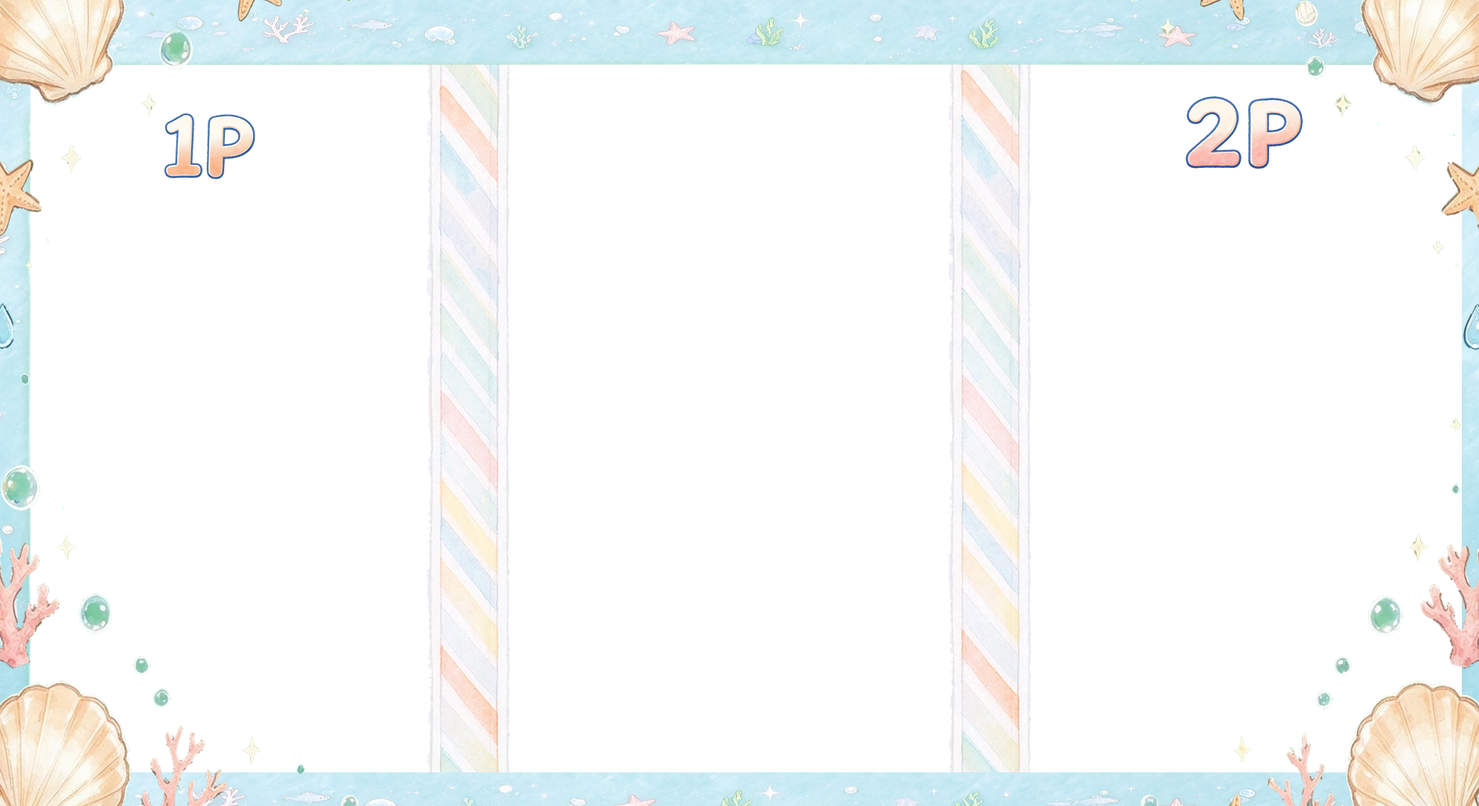
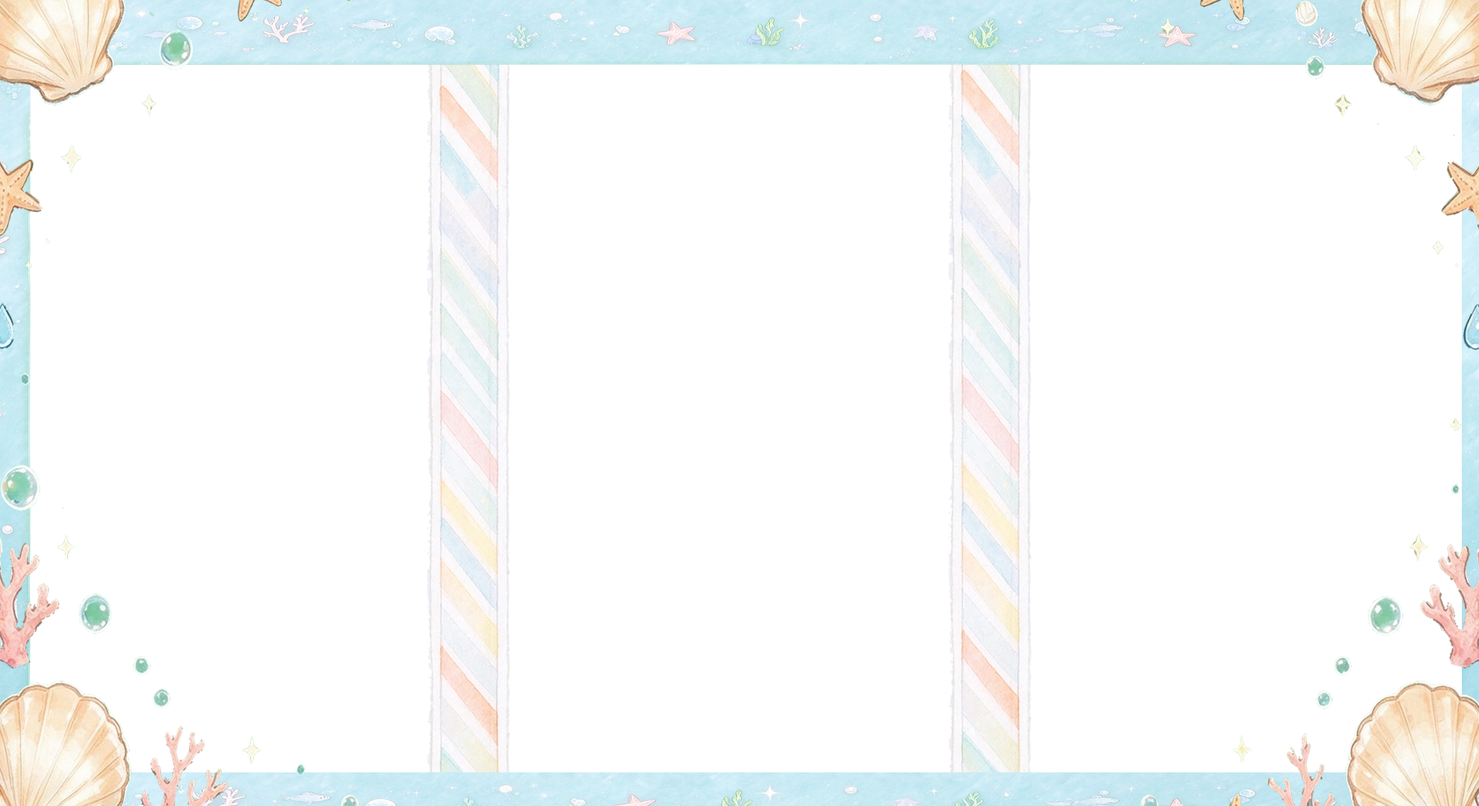
Fix camera fishing UI and add solo gesture play

Changed region(s): [[0.801, 0.1222, 0.8934, 0.2139], [0.0924, 0.1528, 0.1848, 0.2444]]

diff --git a/Assets/GestureFistGame/Scripts/FishPageCards.cs b/Assets/GestureFistGame/Scripts/FishPageCards.cs
@@ -11,7 +11,7 @@ namespace GestureFistGame {
   void Awake(){ui=GetComponent<FishGameUI>();var safe=transform.Find("SafeArea");
    tutorial=Card("ActionTutorial",safe,new Vector2(.08f,.16f),new Vector2(.92f,.86f),new Color(.95f,.97f,.99f));
    Label(tutorial,"动作教学 · 三步",new Vector2(.05f,.85f),new Vector2(.95f,.98f),44);
-   string[] steps={"第 1 步  观察鱼群\n等鱼游进渔网范围","第 2 步  双人举网\n每人双手腕过头顶，单手无效\n两人完成动作的时间差决定结果","第 3 步  合作判定\n完美：时间差 ≤0.5 秒，网内全收\n普通：时间差 >0.5 且 ≤1.5 秒\n保留靠近网中心的一半，连击归零\n失败：超过1.5秒或只有一人举网\n鱼全部逃走，连击归零"};
+   string[] steps={"第 1 步  观察鱼群\n等鱼游进渔网范围","第 2 步  举起渔网\n先放下双手，再将两只手腕举过头顶","第 3 步  捕获鱼群\n举网成功时，收下渔网范围内的鱼\n抓到一条鱼即可完成教程"};
    var recognition=new GameObject("RecognitionCharacter",typeof(RectTransform),typeof(RawImage));recognition.transform.SetParent(tutorial,false);
    var rr=recognition.GetComponent<RectTransform>();rr.anchorMin=new Vector2(.015f,.16f);rr.anchorMax=new Vector2(.2f,.82f);rr.offsetMin=rr.offsetMax=Vector2.zero;
    recognition.GetComponent<RawImage>().texture=Resources.Load<Texture2D>("Opening/Recognition");recognition.GetComponent<RawImage>().raycastTarget=false;
@@ -26,17 +26,17 @@ namespace GestureFistGame {
     var text=Label(r,steps[i],new Vector2(.02f,.03f),new Vector2(.98f,.97f),i==2?28:30);
     text.resizeTextForBestFit=true;text.resizeTextMinSize=22;text.resizeTextMaxSize=i==2?28:30;
    }
-   Button(tutorial,"返回首页",new Vector2(.15f,.025f),new Vector2(.85f,.115f),()=>{ConfirmTutorial();});
+   Button(tutorial,"返回首页",new Vector2(.38f,.025f),new Vector2(.62f,.135f),()=>{ConfirmTutorial();});
    results=Card("TeamResultCards",safe,new Vector2(.06f,.08f),new Vector2(.94f,.92f),new Color(.95f,.97f,.99f));
-   resultTitle=Label(results,"团队成绩",new Vector2(.05f,.85f),new Vector2(.95f,.98f),44);
-   string[] names={"捕获鱼数","总分","同步率","最长连击","星级","历史最佳"};
+   resultTitle=Label(results,"单人挑战成绩",new Vector2(.05f,.85f),new Vector2(.95f,.98f),44);
+   string[] names={"捕获鱼数","总分","捕获率","最长连击","星级","历史最佳"};
    for(int i=0;i<6;i++){int col=i%3,row=i/3;float x=.04f+col*.31f,y=.61f-row*.23f;var r=Card(names[i],results,new Vector2(x,y),new Vector2(x+.29f,y+.21f),Color.white);Label(r,names[i],new Vector2(.02f,.6f),new Vector2(.98f,.94f),34);values[i]=Label(r,"—",new Vector2(.02f,.05f),new Vector2(.98f,.6f),48);}
-   for(int i=0;i<2;i++) {
-    float x=i==0?.04f:.515f;
-    var player=Card("PlayerReport"+(i+1),results,new Vector2(x,.18f),new Vector2(x+.445f,.36f),Color.white);
-    Label(player,"P"+(i+1),new Vector2(.02f,.7f),new Vector2(.98f,.98f),34);
+   for(int i=0;i<1;i++) {
+    float x=.16f;
+    var player=Card("PlayerReport"+(i+1),results,new Vector2(x,.18f),new Vector2(x+.68f,.36f),Color.white);
+    Label(player,"玩家表现",new Vector2(.02f,.7f),new Vector2(.98f,.98f),34);
     Label(player,"平均响应",new Vector2(.02f,.4f),new Vector2(.49f,.7f),30);
-    Label(player,"完美次数",new Vector2(.51f,.4f),new Vector2(.98f,.7f),30);
+    Label(player,"成功捕获波数",new Vector2(.51f,.4f),new Vector2(.98f,.7f),30);
     responses[i]=Label(player,"—",new Vector2(.02f,.03f),new Vector2(.49f,.4f),38);
     perfects[i]=Label(player,"0",new Vector2(.51f,.03f),new Vector2(.98f,.4f),38);
    }
@@ -56,6 +56,6 @@ namespace GestureFistGame {
   public bool Teaching => teaching;
   public void ConfirmTutorial(){teaching=false;tutorial.gameObject.SetActive(false);}
   public void ShowTutorial(bool camera){gesture=camera;teaching=true;tutorial.gameObject.SetActive(true);tutorial.SetAsLastSibling();}
-  void LateUpdate(){FitCharacter("RecognitionCharacter",.02f,.2f);FitCharacter("RaiseHandsCharacter",.8f,.98f);tutorial.gameObject.SetActive(teaching);if(teaching)tutorial.SetAsLastSibling();var g=ui.game;results.gameObject.SetActive(g.IsFinished);if(!g.IsFinished)return;if(ui.finishPanel!=null)ui.finishPanel.SetActive(false);results.SetAsLastSibling();resultTitle.text=g.StageName+" · "+(g.CanAdvance?"完成":"成绩");advanceText.text=g.CanAdvance?"下一关":g.Stage==3?"重新挑战":"重试本关";values[0].text=g.Catches+" 条";values[1].text=g.Score.ToString();values[2].text=g.SyncRate.ToString("P0");values[3].text=g.LongestCombo.ToString();values[4].text=new string('★',g.Stars)+new string('☆',3-g.Stars);values[5].text=g.BestScore+" 分";for(int i=0;i<2;i++){responses[i].text=g.PlayerResponse(i);perfects[i].text=g.PerfectWaves.ToString();}}
+  void LateUpdate(){FitCharacter("RecognitionCharacter",.02f,.2f);FitCharacter("RaiseHandsCharacter",.8f,.98f);tutorial.gameObject.SetActive(teaching);if(teaching)tutorial.SetAsLastSibling();var g=ui.game;results.gameObject.SetActive(g.IsFinished);if(!g.IsFinished)return;if(ui.finishPanel!=null)ui.finishPanel.SetActive(false);results.SetAsLastSibling();resultTitle.text=g.StageName+" · "+(g.CanAdvance?"完成":"成绩");advanceText.text=g.CanAdvance?"下一关":g.Stage==3?"重新挑战":"重试本关";values[0].text=g.Catches+" 条";values[1].text=g.Score.ToString();values[2].text=(g.PassedFish == 0 ? 0f : (float)g.Catches / g.PassedFish).ToString("P0");values[3].text=g.LongestCombo.ToString();values[4].text=new string('★',g.Stars)+new string('☆',3-g.Stars);values[5].text=g.BestScore+" 分";for(int i=0;i<1;i++){responses[i].text=g.PlayerResponse(i);perfects[i].text=g.PerfectWaves.ToString();}}
  }
 }

diff --git a/Assets/GestureFistGame/Scripts/FishGameController.cs b/Assets/GestureFistGame/Scripts/FishGameController.cs
@@ -74,7 +74,7 @@ namespace GestureFistGame
     public int PerfectWaves { get; private set; }
     public int CompletedWaves { get; private set; }
     public int PassedFish { get; private set; }
-    public int BestScore => PlayerPrefs.GetInt("FishTeamBest", 0);
+    public int BestScore => PlayerPrefs.GetInt("FishSoloBest", 0);
     public float SyncRate => CompletedWaves == 0 ? 0 : (float)PerfectWaves / CompletedWaves;
     public int Stars => PassedFish == 0 ? 0 : Catches >= PassedFish * .8f ? 3 : Catches >= PassedFish * .6f ? 2 : Catches >= PassedFish * .4f ? 1 : 0;
     public float Countdown { get; private set; }
@@ -88,12 +88,13 @@ namespace GestureFistGame
     public bool PlayerLifted(int side) => SimulationActive && ((_firstLift >= 0 && _firstSide == side) || Elapsed < _liftFeedbackUntil);
     private float _waveStarted;
     public void WaveStarted() { _waveStarted = Elapsed; }
-    public string FlowHint => Phase == RoundPhase.Confirming ? "两位玩家请入镜，各露出双手" : Phase == RoundPhase.Countdown ? Mathf.CeilToInt(Countdown).ToString() : Phase == RoundPhase.Paused ? (input != null && input.TwoPlayersReady ? "两人已就位，稳定后自动继续" : "追踪暂停，请两人重新入镜") : Stage == 1 && SimulationActive ? "教程：等鱼进入网内，两人双手过头顶；时间差≤0.5秒完成教学" : LastEvent;
+    public const bool SoloMode = true;
+    public string FlowHint => Phase == RoundPhase.Confirming ? "请站在摄像头前，露出头部和双手" : Phase == RoundPhase.Countdown ? Mathf.CeilToInt(Countdown).ToString() : Phase == RoundPhase.Paused ? (input != null && input.PlayersReady ? "已就位，稳定后自动继续" : "追踪暂停，请重新入镜") : Stage == 1 && SimulationActive ? "教程：等鱼进入网内，双手腕举过头顶" : LastEvent;
 
     private void Update()
     {
       if (Phase == RoundPhase.Menu || IsFinished) return;
-      bool ready = input != null && (input.mouseMode || input.TwoPlayersReady);
+      bool ready = input != null && (input.mouseMode || input.PlayersReady);
       if (Phase == RoundPhase.Confirming)
       {
         _stable = ready ? _stable + Time.unscaledDeltaTime : 0;
@@ -133,7 +134,7 @@ namespace GestureFistGame
       System.Array.Clear(_responseSum, 0, 2); System.Array.Clear(_responses, 0, 2);
       TimeRemaining = roundSeconds; IsFinished = false; IsRunning = true;
       Phase = RoundPhase.Confirming; _stable = _lost = _pauseTime = 0; _firstLift = -1;
-      LastEvent = "等待两位玩家";
+      LastEvent = "等待玩家入镜";
       input?.ResetForRound(); net?.ResetNet(); spawner?.ResetSpawner();
     }
     public void ReturnToMenu() { IsRunning=false; IsFinished=false; Phase=RoundPhase.Menu; _firstLift=-1; spawner?.StopSpawning(); net?.ResetNet(); }
@@ -145,7 +146,7 @@ namespace GestureFistGame
     }
     public void ConfirmResume()
     {
-      if (Phase != RoundPhase.Paused || input == null || (!input.mouseMode && !input.TwoPlayersReady)) return;
+      if (Phase != RoundPhase.Paused || input == null || (!input.mouseMode && !input.PlayersReady)) return;
       Phase = RoundPhase.Countdown; Countdown = 3; _lost = 0; input.ResetForPlay();
     }
     private void FinishRound(bool complete)
@@ -155,7 +156,7 @@ namespace GestureFistGame
       Score += LongestCombo * 5; IsFinished = true; IsRunning = false; Phase = RoundPhase.Finished; _firstLift = -1;
       if (spawner != null && spawner.WaveId > 0 && !WaveResolved(spawner.WaveId)) RecordUncaughtWave(spawner.WaveId);
       spawner?.StopSpawning();
-      if (complete && Stage != 1 && Score > BestScore) { PlayerPrefs.SetInt("FishTeamBest", Score); PlayerPrefs.Save(); }
+      if (complete && Stage != 1 && Score > BestScore) { PlayerPrefs.SetInt("FishSoloBest", Score); PlayerPrefs.Save(); }
       LastEvent = complete ? (Stage == 3 ? "三关挑战完成！" : StageName + "完成") : "本关中断，请重试";
     }
     public string LiftDebugResult { get; private set; } = "";
@@ -165,6 +166,7 @@ namespace GestureFistGame
     public void RegisterLift(int side)
     {
       if (!SimulationActive || net == null || !net.CanThrow) return;
+      if (SoloMode) { _responses[0]++; _responseSum[0] += Mathf.Max(0, Elapsed - _waveStarted); ResolveLift(0f); return; }
       if (_firstLift < 0) { _responses[side]++; _responseSum[side] += Mathf.Max(0, Elapsed - _waveStarted); _firstLift = Elapsed; _firstSide = side; LastEvent = "P" + (side + 1) + " 已举网，等待队友"; return; }
       if (_firstSide == side) return;
       float gap = Elapsed - _firstLift;
@@ -191,7 +193,7 @@ namespace GestureFistGame
       CompletedWaves++;
       if (quality == 2) { if (Stage == 1) _tutorialCaught = true; PerfectWaves++; Combo++; LongestCombo = Mathf.Max(LongestCombo, Combo); }
       else Combo = 0;
-      LastEvent = quality == 2 ? "完美协作！ 连击 × " + Combo : quality == 1 ? "差一点，鱼跑了一半" : "鱼跑啦，下波再来";
+      LastEvent = quality == 2 ? "起网成功！ 连击 × " + Combo : quality == 1 ? "差一点，鱼跑了一半" : "鱼跑啦，下波再来";
     }
     public void RegisterSpawnedFish() { PassedFish++; }
     private readonly System.Collections.Generic.HashSet<int> _resolvedWaves = new System.Collections.Generic.HashSet<int>();

diff --git a/Assets/GestureFistGame/Scripts/FishCompactHud.cs b/Assets/GestureFistGame/Scripts/FishCompactHud.cs
@@ -4,7 +4,7 @@ namespace GestureFistGame {
   // Minimal camera-first HUD; each value reads the live round state.
   [DefaultExecutionOrder(200)]
   public sealed class FishCompactHud:MonoBehaviour {
-    FishGameUI ui;RectTransform root;Text score,time,combo,sync,p1,p2,result;float resultUntil;string last;Button replay,home,reconnect;
+    FishGameUI ui;RectTransform root;Text score,time,combo,sync,p1,p2,result;float resultUntil;string last;Button replay,home;
     Text Pill(string name,Vector2 min,Vector2 max,Color bg,Color fg,int size){
       var go=new GameObject(name,typeof(RectTransform),typeof(Image));go.transform.SetParent(root,false);
       var r=go.GetComponent<RectTransform>();r.anchorMin=min;r.anchorMax=max;r.offsetMin=r.offsetMax=Vector2.zero;
@@ -28,26 +28,22 @@ namespace GestureFistGame {
       var back=Pill("ReturnHome",new Vector2(.51f,.12f),new Vector2(.81f,.18f),new Color(.16f,.55f,.61f),Color.white,32);
       back.text="返回首页";var backImage=back.transform.parent.GetComponent<Image>();backImage.raycastTarget=true;
       home=backImage.gameObject.AddComponent<Button>();home.targetGraphic=backImage;home.onClick.AddListener(()=>GetComponent<FishStartScreen>().ReturnHome());
-      var camera=Pill("ReconnectCamera",new Vector2(.34f,.32f),new Vector2(.66f,.38f),new Color(.16f,.55f,.61f),Color.white,30);
-      camera.text="重连摄像头";var cameraImage=camera.transform.parent.GetComponent<Image>();cameraImage.raycastTarget=true;
-      reconnect=cameraImage.gameObject.AddComponent<Button>();reconnect.targetGraphic=cameraImage;reconnect.onClick.AddListener(()=>ui.Calibrate());
       result=Pill("CooperationResult",new Vector2(.2f,.22f),new Vector2(.8f,.3f),new Color(.1f,.2f,.15f,.65f),Color.white,38);
     }
     void LateUpdate(){
       var g=ui.game;bool active=g.IsRunning||g.IsFinished;root.gameObject.SetActive(active);
       if(!active)return;
       foreach(string name in new[]{"TitleCard","ScorePanel","StatusPanel"}){var old=transform.Find("SafeArea/"+name);if(old!=null)old.gameObject.SetActive(false);}
-      reconnect.gameObject.SetActive(g.Phase==FishGameController.RoundPhase.Paused || g.Phase==FishGameController.RoundPhase.Confirming);
       replay.gameObject.SetActive(false);home.gameObject.SetActive(false);
       score.text=g.Score+" 分";time.text="剩 "+Mathf.CeilToInt(g.TimeRemaining)+" 秒";combo.text="连击 × "+g.Combo;sync.text="同步率 "+g.SyncRate.ToString("P0");
       
       p1.text="P1 "+(g.PlayerLifted(0)?"已抬网":ui.input.TwoPlayersReady?"待抬网":"待入镜");
       p2.text="P2 "+(g.PlayerLifted(1)?"已抬网":ui.input.TwoPlayersReady?"待抬网":"待入镜");
       if(!g.SimulationActive) { resultUntil=0; last=null; }
-      if(last!=g.LastEvent){last=g.LastEvent;if(last.StartsWith("完美")||last.StartsWith("差一点")||last.StartsWith("鱼跑")||last.Contains("已举网")||last.Contains("暂无鱼")){result.text=last;resultUntil=Time.unscaledTime+2;}}
+      if(last!=g.LastEvent){last=g.LastEvent;if(last.StartsWith("起网成功")||last.StartsWith("差一点")||last.StartsWith("鱼跑")||last.Contains("已举网")||last.Contains("暂无鱼")){result.text=last;resultUntil=Time.unscaledTime+2;}}
       bool showResult = Time.unscaledTime < resultUntil;
       if (!showResult && g.Stage == 1)
-        result.text = "先放下双手，再一起举过头顶起网";
+        result.text = "先放下双手，再举过头顶起网";
       result.transform.parent.gameObject.SetActive(g.SimulationActive && (showResult || g.Stage == 1));
       if(ui.finishPanel!=null&&g.IsFinished)ui.finishPanel.transform.SetAsLastSibling();
     }

diff --git a/Assets/GestureFistGame/Scripts/FishGestureInput.cs b/Assets/GestureFistGame/Scripts/FishGestureInput.cs
@@ -32,6 +32,7 @@ namespace GestureFistGame
     public int DetectedPlayers { get; private set; }
     private float _lastBothPoseTime = -100f;
     public float TrackingLostSeconds => Mathf.Max(0, Time.unscaledTime - _lastBothPoseTime);
+    public bool PlayersReady => FishGameController.SoloMode ? HandDetected && Time.unscaledTime - _lastPoseTime <= .5f : TwoPlayersReady;
     public bool TwoPlayersReady => DetectedPlayers == 2 && BothHandsDetected && Time.unscaledTime - _lastPoseTime <= .5f;
     public void ResetForPlay() { ResetState(_left); ResetState(_right); _left.armed = _right.armed = false; }
     public bool BothHandsDetected { get; private set; }
@@ -95,6 +96,8 @@ namespace GestureFistGame
       if (!HandDetected || Time.unscaledTime - Mathf.Max(_left.lastSampleTime, _right.lastSampleTime) > .5f)
         Status = tracker != null && !tracker.CameraReady ? tracker.Status :
           (requireTwoHands ? "请让头部、肩膀和手腕入镜，举手过头顶" : "请让头部、肩膀和手腕入镜，举手过头顶");
+      else if (FishGameController.SoloMode)
+        Status = "已识别玩家 · 双手腕举过头顶起网";
       else if (requireTwoHands && !BothHandsDetected)
         Status = "已识别 " + DetectedHands + "/2 位玩家 · 请让头部、肩膀和手腕入镜";
       else if (requireTwoHands && (_left.waveTime >= 0f || _right.waveTime >= 0f))
@@ -144,6 +147,14 @@ namespace GestureFistGame
           if (p != null && p.Count >= 17 && Visible(p[11]) && Visible(p[12]) &&
               Vector2.Distance(Point(p[11]), Point(p[12])) >= .04f) people.Add(p);
         }
+      if (FishGameController.SoloMode && people.Count > 1)
+      {
+        float target = _peopleCount > 0 ? _leftOwnerX : .5f;
+        people.Sort((a,b) => Mathf.Abs(CenterX(a)-target).CompareTo(Mathf.Abs(CenterX(b)-target)));
+        int readyIndex = people.FindIndex(PersonReady);
+        if (readyIndex > 0) (people[0], people[readyIndex]) = (people[readyIndex], people[0]);
+        people.RemoveRange(1,people.Count-1);
+      }
       people.Sort((a, b) => CenterX(a).CompareTo(CenterX(b)));
       if (people.Count > 2) people.RemoveRange(2, people.Count - 2);
       DetectedHands = 0; DetectedPlayers = people.Count;
@@ -160,7 +171,9 @@ namespace GestureFistGame
           if (people.Count == 2 && _peopleCount == 2 && game != null && game.SimulationActive) game.PauseRound();
         }
         _peopleCount = people.Count; _leftOwnerX = lx; _rightOwnerX = rx; _lastPoseTime = now;
-        if (people.Count == 2 && PersonReady(people[0]) && PersonReady(people[1]))
+        if (FishGameController.SoloMode && PersonReady(people[0]))
+          SamplePerson(_left, HandSide.Left, people[0], now);
+        else if (people.Count == 2 && PersonReady(people[0]) && PersonReady(people[1]))
         {
           SamplePerson(_left, HandSide.Left, people[0], now);
           SamplePerson(_right, HandSide.Right, people[1], now);
@@ -170,7 +183,7 @@ namespace GestureFistGame
       else { MarkMissing(_left, now); MarkMissing(_right, now); }
       HandDetected = DetectedHands > 0;
       BothHandsDetected = DetectedHands >= 2;
-      if (BothHandsDetected) _lastBothPoseTime = now;
+      if (FishGameController.SoloMode ? HandDetected : BothHandsDetected) _lastBothPoseTime = now;
       else if (TrackingLostSeconds > .2f) game?.CancelPendingLift();
     }
 

diff --git a/Assets/GestureFistGame/Scripts/SeaUiArt.cs b/Assets/GestureFistGame/Scripts/SeaUiArt.cs
@@ -82,7 +82,7 @@ namespace GestureFistGame {
  }
  [DefaultExecutionOrder(1200)] public class SeaUiSkin:MonoBehaviour {
  FishGameUI ui;Image[] players=new Image[2];
- void Start(){ui=GetComponent<FishGameUI>();foreach(var image in GetComponentsInChildren<Image>(true)){if(image.name=="Settings"||image.name=="ActionTutorial"||image.name=="TeamResultCards")SeaUiArt.Panel(image,"White");else if(image.name.StartsWith("FishCounter"))SeaUiArt.Panel(image,"Yellow");else if(image.GetComponent<Button>()!=null && image.transform.parent.name!="OpeningArtwork")SeaUiArt.Panel(image,image.name.Contains("返回")||image.name=="ReturnHome"?"Pink":"Yellow");}
+ void Start(){ui=GetComponent<FishGameUI>();foreach(var image in GetComponentsInChildren<Image>(true)){if(image.name=="Settings"||image.name=="TeamResultCards")SeaUiArt.Panel(image,"White");else if(image.name.StartsWith("FishCounter"))SeaUiArt.Panel(image,"Yellow");else if(image.GetComponent<Button>()!=null && image.transform.parent.name!="OpeningArtwork" && image.transform.parent.name!="ActionTutorial" && image.name!="ReconnectCamera")SeaUiArt.Panel(image,image.name.Contains("返回")||image.name=="ReturnHome"?"Pink":"Yellow");}
  foreach(var text in GetComponentsInChildren<Text>(true)){string parent=text.transform.parent.name;if(parent=="TimeLeft"||parent=="TeamScore"||parent=="PerfectCombo"||parent=="TeamSync"||parent.StartsWith("FishCounter")||text.transform.parent.parent?.name=="SpeciesCounters")text.gameObject.AddComponent<SeaUiNumbers>();}
  foreach(string name in new[]{"TimeLeft","TeamSync"}){var t=transform.Find("SafeArea/CompactCoopHUD/"+name);if(t!=null)SeaUiArt.Panel(t.GetComponent<Image>(),"Blue");}
  for(int i=0;i<2;i++){var go=new GameObject("PlayerAnimation"+i,typeof(RectTransform),typeof(Image));go.transform.SetParent(transform.Find("SafeArea"),false);players[i]=go.GetComponent<Image>();players[i].raycastTarget=false;players[i].preserveAspect=true;var r=players[i].rectTransform;r.anchorMin=r.anchorMax=new Vector2(i==0?0f:1f,0);r.pivot=new Vector2(i==0?0f:1f,0);r.anchoredPosition=Vector2.zero;r.sizeDelta=new Vector2(239,322);r.localScale=Vector3.one;}

diff --git a/Assets/GestureFistGame/Scripts/SeaRiverPresentation.cs b/Assets/GestureFistGame/Scripts/SeaRiverPresentation.cs
@@ -38,13 +38,13 @@ namespace GestureFistGame {
    }
    Number("FishCount" + j, x + 136f, 25f, 74f, 57f);
  }
- Picture("TimeCaption",650,113,131,86,"TimeLabel");Picture("SyncCaption",1005,113,139,86,"SyncLabel");timeValue=Number("TimeDigits",790,116,196,79);syncValue=Number("SyncDigits",1152,116,174,79);
+ Picture("TimeCaption",650,113,131,86,"TimeLabel");Picture("ScoreCard",1005,113,139,86,"PanelBlue");var scoreCaption=Item("ScoreCaption",1012,125,125,62).gameObject.AddComponent<Text>();scoreCaption.font=ui.scoreText.font;scoreCaption.fontSize=42;scoreCaption.alignment=TextAnchor.MiddleCenter;scoreCaption.color=new Color(.12f,.28f,.42f);scoreCaption.text="分数";scoreCaption.raycastTarget=false;timeValue=Number("TimeDigits",790,116,196,79);syncValue=Number("SyncDigits",1152,116,174,79);
  }
  var safe=(RectTransform)transform.Find("SafeArea");header.localScale=Vector3.one*(safe.rect.width/1980f);
  var old=transform.Find("SafeArea/SpeciesCounters");if(old!=null)old.gameObject.SetActive(false);
  foreach(string name in new[]{"TimeLeft","TeamSync","TeamScore","PerfectCombo","PlayerOneState","PlayerTwoState"}){var t=transform.Find("SafeArea/CompactCoopHUD/"+name);if(t!=null)t.gameObject.SetActive(false);}
  int[] indices={1,2,0};string[] species={"红眼鱼","金鱼","白斑狗鱼"};for(int j=0;j<3;j++)header.Find("FishCount"+j).GetComponent<Text>().text=ui.game.CapturedCount(species[indices[j]]).ToString();
- timeValue.text=ui.game.Stage == 1 ? "—" : Mathf.CeilToInt(ui.game.TimeRemaining).ToString("00");syncValue.text=Mathf.RoundToInt(ui.game.SyncRate*100).ToString("00")+"%";header.gameObject.SetActive(ui.game.IsRunning||ui.game.IsFinished);
+ timeValue.text=ui.game.Stage == 1 ? "—" : Mathf.CeilToInt(ui.game.TimeRemaining).ToString("00");syncValue.text=ui.game.Score.ToString("00");header.gameObject.SetActive(ui.game.IsRunning||ui.game.IsFinished);
  }
  static void Stretch(RectTransform r){r.anchorMin=Vector2.zero;r.anchorMax=Vector2.one;r.offsetMin=r.offsetMax=Vector2.zero;}
  void OnDestroy(){if(texture!=null){texture.Release();Destroy(texture);}}

diff --git a/Assets/GestureFistGame/Editor/SoloDeliveryCheck.cs b/Assets/GestureFistGame/Editor/SoloDeliveryCheck.cs
@@ -1,0 +1,45 @@
+using System;
+using UnityEditor;
+using UnityEditor.SceneManagement;
+using UnityEngine;
+using GestureFistGame;
+using Mediapipe.Tasks.Components.Containers;
+using Mediapipe.Tasks.Vision.PoseLandmarker;
+
+public static class SoloDeliveryCheck
+{
+    public static void Run()
+    {
+        EditorSceneManager.OpenScene("Assets/GestureFistGame/Scenes/GestureFishCatchGame.unity");
+        var game = UnityEngine.Object.FindObjectOfType<FishGameController>();
+        var input = UnityEngine.Object.FindObjectOfType<FishGestureInput>();
+        input.mouseMode = false;
+        game.StartCampaign();
+        SendPose(input, false);
+        if (!input.PlayersReady) throw new Exception("One player did not qualify for the round");
+        typeof(FishGameController).GetProperty("Phase").SetValue(game, FishGameController.RoundPhase.Playing);
+        foreach (var water in UnityEngine.Object.FindObjectsOfType<InteractiveWaterSurface>())
+            water.gameObject.SetActive(false);
+        input.poseHoldSeconds = 0f;
+        SendPose(input, false);
+        SendPose(input, true);
+        if (game.net.PhaseName != "Raising") throw new Exception("Solo lift did not raise the net");
+        if (!UnityEngine.Object.FindObjectOfType<MediaPipeTracker>().LoadModels())
+            throw new Exception("Pose model failed to load");
+        Debug.Log("SOLO_DELIVERY_PASS");
+    }
+
+    private static void SendPose(FishGestureInput input, bool raised)
+    {
+        var result = PoseLandmarkerResult.Alloc(1);
+        var pose = NormalizedLandmarks.Alloc(33);
+        for (int i = 0; i < 33; i++)
+        {
+            float x = i == 11 || i == 15 ? .4f : i == 12 || i == 16 ? .6f : .5f;
+            float y = i < 11 ? .35f : i == 15 || i == 16 ? (raised ? .1f : .7f) : .5f;
+            pose.landmarks.Add(NormalizedLandmark.CreateFrom(new Mediapipe.NormalizedLandmark { X=x, Y=y, Visibility=1, Presence=1 }));
+        }
+        result.poseLandmarks.Add(pose);
+        input.ReceivePose(result);
+    }
+}

diff --git a/Assets/GestureFistGame/Scripts/FishStartScreen.cs b/Assets/GestureFistGame/Scripts/FishStartScreen.cs
@@ -24,7 +24,14 @@ namespace GestureFistGame
     private float leftWave=-10,rightWave=-10,cooldown;
     private void ApplyOpeningArt(){
       var bg=Resources.Load<Texture2D>("Opening/Background");if(bg==null)return;
-      art=Panel("OpeningArtwork",menu,new Vector2(2048,1152),Vector2.zero,false);art.SetAsFirstSibling();
+      var backdrop = Panel("OpeningBackdrop", menu, Vector2.zero, Vector2.zero, false);
+      backdrop.anchorMin = Vector2.zero;
+      backdrop.anchorMax = Vector2.one;
+      backdrop.offsetMin = backdrop.offsetMax = Vector2.zero;
+      var backdropImage = backdrop.gameObject.AddComponent<RawImage>();
+      backdropImage.texture = Resources.Load<Texture2D>("Opening/EdgeBackdrop");
+      backdropImage.raycastTarget = false;
+      art=Panel("OpeningArtwork",menu,new Vector2(2048,1152),Vector2.zero,false);art.SetSiblingIndex(1);
       var image=art.gameObject.AddComponent<RawImage>();image.texture=bg;image.raycastTarget=false;
       foreach(Transform child in card)if(child.name=="Label")child.gameObject.SetActive(false);
       card.GetComponent<Image>().enabled=false;

diff --git a/Assets/GestureFistGame/Scripts/FishGameUI.cs b/Assets/GestureFistGame/Scripts/FishGameUI.cs
@@ -116,7 +116,7 @@ namespace GestureFistGame
             " · 同步率 " + game.SyncRate.ToString("P0") + "\n最长连击 × " + game.LongestCombo +
             " · 奖励 +" + game.LongestCombo * 5 + "\n" + game.PlayerReport(0) + "\n" + game.PlayerReport(1) + "\n历史最佳 " + game.BestScore;
       }
-      if (cameraPanel != null) cameraPanel.SetActive(game.IsRunning || game.IsFinished);
+      if (cameraPanel != null) cameraPanel.SetActive(false);
       SetButtonLabel(resetButton, game.Phase == FishGameController.RoundPhase.Paused ? "确认继续" : "再玩一回");
       if (gestureButton != null) gestureButton.interactable = input.mouseMode;
       if (mouseButton != null) mouseButton.interactable = !input.mouseMode;
